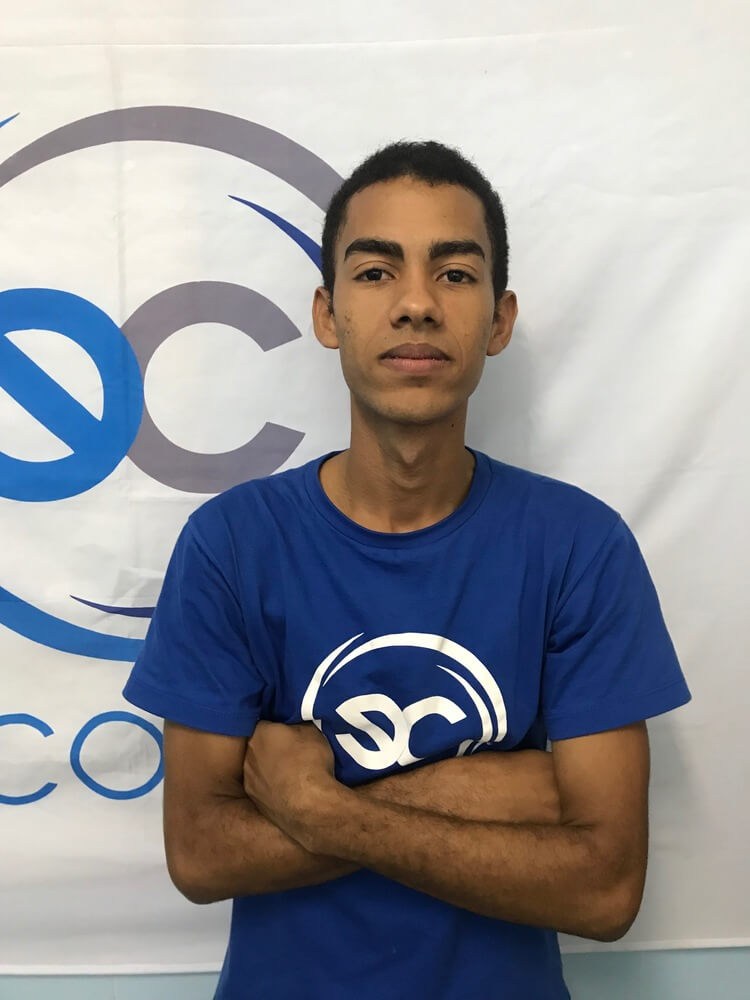
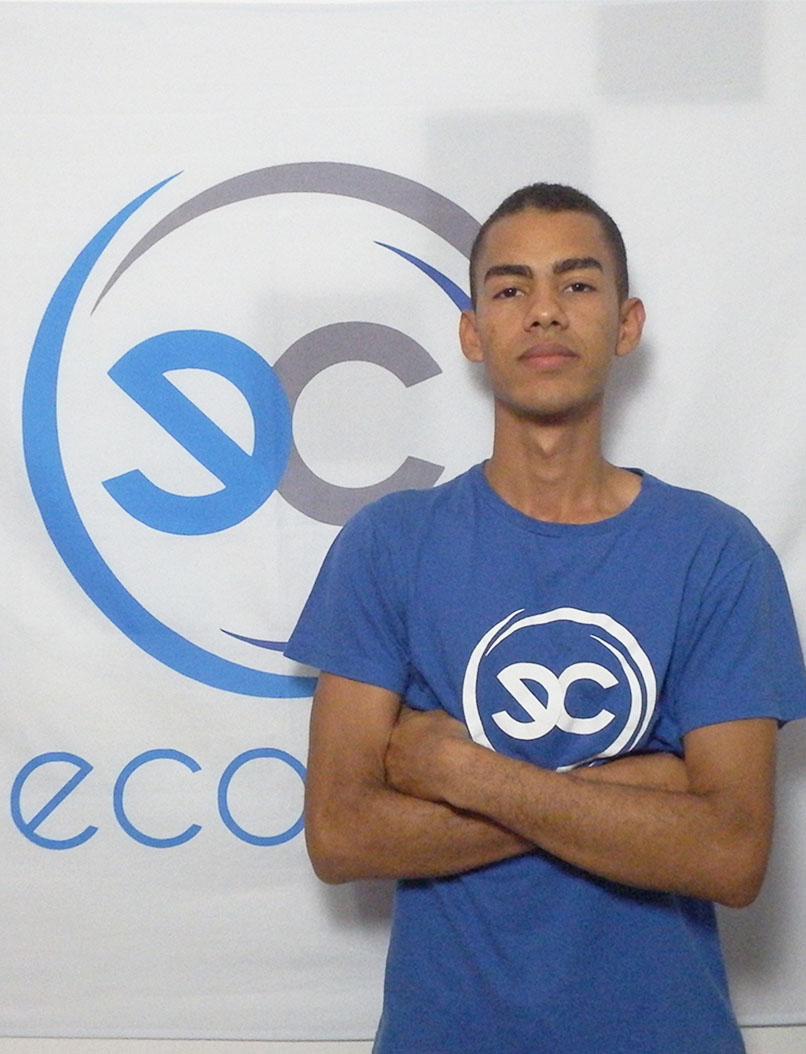
Alterações dos membros ecompJr
Adicionadas as fotos novas dos membros

diff --git a/equipe.html b/equipe.html
@@ -191,136 +191,127 @@
                         </div>
                         <!-- /.item -->
                     </div>
+                </div>
+                <!-- /.team-member-slider -->
+            </div>
+            <!-- /.container -->
+            <div class="over-view">
+                <div class="container">
+                    <div class="row">
+                        <div class="col-md-12">
+                            <h3 class="text-center title"> Consultores de Projetos </h3>
+                        </div>
+                        <!-- /.col-md-12 -->
+                    </div>
+                    <!-- /.row -->
+                </div>
+                <!-- /.container -->
+            </div>
+            <!-- /.over-view -->
 
-                    <!--/. <div class="col-md-3">
+            <div class="container">
+                <div id="team-member-slider-2" class="team-member-slider owl-carousel owl-theme">
+                    <div class="col-md-6">
+                        <div class="item">
+                            <div id="membro-0" class="member-container wow bounceInUp" data-wow-delay=".1s">
+
+                            </div>
+                            <!-- /.member-container -->
+                        </div>
+                        <!-- /.item -->
+                    </div>
+
+                    <div class="col-md-6">
+                        <div class="item">
+                            <div id="membro-1" class="member-container wow bounceInUp" data-wow-delay=".2s">
+
+                            </div>
+                            <!-- /.member-container -->
+                        </div>
+                        <!-- /.item -->
+                    </div>
+
+                    <div class="col-md-6">
+                        <div class="item">
+                            <div id="membro-2" class="member-container wow bounceInUp" data-wow-delay=".3s">
+
+                            </div>
+                            <!-- /.member-container -->
+                        </div>
+                        <!-- /.item -->
+                    </div>
+
+                    <div class="col-md-6">
+                        <div class="item">
+                            <div id="membro-3" class="member-container wow bounceInUp" data-wow-delay=".4s">
+
+                            </div>
+                            <!-- /.member-container -->
+                        </div>
+                        <!-- /.item -->
+                    </div>
+
+                    <div class="col-md-6">
+                        <div class="item">
+                            <div id="membro-4" class="member-container wow bounceInUp" data-wow-delay=".5s">
+
+                            </div>
+                            <!-- /.member-container -->
+                        </div>
+                        <!-- /.item -->
+                    </div>
+
+                    <div class="col-md-6">
+                        <div class="item">
+                            <div id="membro-5" class="member-container wow bounceInUp" data-wow-delay=".6s">
+
+                            </div>
+                            <!-- /.member-container -->
+                        </div>
+                        <!-- /.item -->
+                    </div>
+
+                    <div class="col-md-6">
+                        <div class="item">
+                            <div id="membro-6" class="member-container wow bounceInUp" data-wow-delay=".7s">
+
+                            </div>
+                            <!-- /.member-container -->
+                        </div>
+                        <!-- /.item -->
+                    </div>
+
+                    <div class="col-md-6">
+                        <div class="item">
+                            <div id="membro-7" class="member-container wow bounceInUp" data-wow-delay=".8s">
+
+                            </div>
+                            <!-- /.member-container -->
+                        </div>
+                        <!-- /.item -->
+                    </div>
+                    <div class="col-md-6">
+                        <div class="item">
+                            <div id="membro-8" class="member-container wow bounceInUp" data-wow-delay=".9s">
+
+                            </div>
+                            <!-- /.member-container -->
+                        </div>
+                        <!-- /.item -->
+                    </div>
+
+
+
+                    <!--div class="col-md-6">
 						<div class="item">
-							<div  id="diretor-5" class="member-container wow bounceInUp" data-wow-delay=".6s">
+							<div id="membro-11" class="member-container wow bounceInUp" data-wow-delay=".11s">
 								
 							</div><!-- /.member-container -->
                 </div>
                 <!-- /.item -->
             </div>
-        </div>
-        <!-- /.team-member-slider -->
-        </div>
-        <!-- /.container -->
-        <div class="over-view">
-            <div class="container">
-                <div class="row">
-                    <div class="col-md-12">
-                        <h3 class="text-center title"> Consultores de Projetos </h3>
-                    </div>
-                    <!-- /.col-md-12 -->
-                </div>
-                <!-- /.row -->
-            </div>
-            <!-- /.container -->
-        </div>
-        <!-- /.over-view -->
 
-        <div class="container">
-            <div id="team-member-slider-2" class="team-member-slider owl-carousel owl-theme">
-                <div class="col-md-6">
-                    <div class="item">
-                        <div id="membro-0" class="member-container wow bounceInUp" data-wow-delay=".1s">
-
-                        </div>
-                        <!-- /.member-container -->
-                    </div>
-                    <!-- /.item -->
-                </div>
-
-                <div class="col-md-6">
-                    <div class="item">
-                        <div id="membro-1" class="member-container wow bounceInUp" data-wow-delay=".2s">
-
-                        </div>
-                        <!-- /.member-container -->
-                    </div>
-                    <!-- /.item -->
-                </div>
-
-                <div class="col-md-6">
-                    <div class="item">
-                        <div id="membro-2" class="member-container wow bounceInUp" data-wow-delay=".3s">
-
-                        </div>
-                        <!-- /.member-container -->
-                    </div>
-                    <!-- /.item -->
-                </div>
-
-                <div class="col-md-6">
-                    <div class="item">
-                        <div id="membro-3" class="member-container wow bounceInUp" data-wow-delay=".4s">
-
-                        </div>
-                        <!-- /.member-container -->
-                    </div>
-                    <!-- /.item -->
-                </div>
-
-                <div class="col-md-6">
-                    <div class="item">
-                        <div id="membro-4" class="member-container wow bounceInUp" data-wow-delay=".5s">
-
-                        </div>
-                        <!-- /.member-container -->
-                    </div>
-                    <!-- /.item -->
-                </div>
-
-                <div class="col-md-6">
-                    <div class="item">
-                        <div id="membro-5" class="member-container wow bounceInUp" data-wow-delay=".6s">
-
-                        </div>
-                        <!-- /.member-container -->
-                    </div>
-                    <!-- /.item -->
-                </div>
-
-                <div class="col-md-6">
-                    <div class="item">
-                        <div id="membro-6" class="member-container wow bounceInUp" data-wow-delay=".7s">
-
-                        </div>
-                        <!-- /.member-container -->
-                    </div>
-                    <!-- /.item -->
-                </div>
-
-                <div class="col-md-6">
-                    <div class="item">
-                        <div id="membro-7" class="member-container wow bounceInUp" data-wow-delay=".8s">
-
-                        </div>
-                        <!-- /.member-container -->
-                    </div>
-                    <!-- /.item -->
-                </div>
-                <div class="col-md-6">
-                    <div class="item">
-                        <div id="membro-8" class="member-container wow bounceInUp" data-wow-delay=".9s">
-
-                        </div>
-                        <!-- /.member-container -->
-                    </div>
-                    <!-- /.item -->
-                </div>
-
-
-
-                <!--div class="col-md-6">
-						<div class="item">
-							<div id="membro-11" class="member-container wow bounceInUp" data-wow-delay=".11s">
-								
-							</div><!-- /.member-container -->
-            </div>
-            <!-- /.item -->
-        </div>
-
-        <!--div class="col-md-6">
+            <!--div class="col-md-6">
 						<div class="item">
 							<div id="membro-12" class="member-container wow bounceInUp" data-wow-delay=".12s">
 								
@@ -371,7 +362,7 @@
 
             </div>
         </div>
-        </div>
+
 
     </section>
 

diff --git a/index.html b/index.html
@@ -305,22 +305,6 @@
 
                         <li class="item col-md-4 col-sm-6">
                             <div class="service-icon">
-                                <span aria-hidden="true" class="li_settings"></span>
-                            </div>
-                            <!-- /.service-icon -->
-                            <p class="item-title">
-                                Automação residencial
-                            </p>
-                            <!-- /.item-title -->
-                            <p class="item-description">
-                                Automatize a sua empresa ou residência e controle pequenas atividades cotidianas, aumentando a sua produtividade, tudo isso através do seu celular!
-                            </p>
-                            <!-- /.item-description -->
-                        </li>
-                        <!-- /.item -->
-
-                        <li class="item col-md-4 col-sm-6">
-                            <div class="service-icon">
                                 <span aria-hidden="true" class="li_phone"></span>
                             </div>
                             <!-- /.service-icon -->
@@ -610,23 +594,6 @@
                                     </figcaption>
                                 </figure>
 
-                                <figure class="item cat-3">
-                                    <img src="images/portfolio/dipapel.png" alt="diPapel" />
-                                    <figcaption>
-                                        <a href="diPapel-details.html" target="_blank">
-                                            <div class="portfolio-caption">
-                                                <span class="protfolio-title">DiPapel</span>
-                                                <span class="protfolio-cat">Sistema</span>
-                                            </div>
-                                            <!--<span class="protfolio-icon">
-											30 <i class="fa fa-heart-o"></i>
-									</span>-->
-                                        </a>
-                                    </figcaption>
-                                </figure>
-
-
-
                                 <figure class="item cat-3 ">
                                     <img src="images/portfolio/absam.png" alt="ABSAM VPN" />
                                     <figcaption>
@@ -693,9 +660,9 @@
                                             <h3><i class="fa fa-clock-o"></i> Horários:</h3>
                                             <span><strong>Segunda</strong> - das 7:30 às 17:30</span><br>
                                             <span><strong>Terça</strong> - das 7:30 às 17:30</span><br>
-                                            <span><strong>Quarta</strong> - das 7:30 às 18:30</span><br>
-                                            <span><strong>Quinta</strong> - das 13:30 às 18:00</span><br>
-                                            <span><strong>Sexta</strong> - das 8:00 às 15:30</span><br><br>
+                                            <span><strong>Quarta</strong> - das 7:30 às 17:30</span><br>
+                                            <span><strong>Quinta</strong> - das 7:30 às 17:30</span><br>
+                                            <span><strong>Sexta</strong> - das 7:30 às 17:30</span><br><br>
                                         </div>
                                     </div>
                                 </div>

diff --git a/assets/js/members.js b/assets/js/members.js
@@ -60,8 +60,8 @@ jQuery(window).load(function() {
             email: 'antonio@ecompjr.com.br',
             github: '',
             job: 'Diretor de Recursos Humanos',
-            text: '',
-            image: 'images/members/member-.jpg'
+            text: 'O único lugar onde o sucesso vem antes do trabalho é no dicionário - Einstein.',
+            image: 'images/members/member-39.jpg'
         },
 
         {
@@ -88,7 +88,7 @@ jQuery(window).load(function() {
             github: '',
             job: 'Membro Consultor',
             text: '',
-            image: 'images/members/member-.jpg'
+            image: 'images/members/member-38.jpg'
         },
 
         {
@@ -115,7 +115,7 @@ jQuery(window).load(function() {
             github: '',
             job: 'Membro Consultor',
             text: '.',
-            image: 'images/members/member-.jpg'
+            image: 'images/members/member-37.jpg'
         },
 
         {

diff --git a/assets/js/members-page.js b/assets/js/members-page.js
@@ -60,8 +60,8 @@
               email: 'antonio@ecompjr.com.br',
               github: '',
               job: 'Diretor de Recursos Humanos',
-              text: '',
-              image: 'images/members/member-.jpg'
+              text: 'O único lugar onde o sucesso vem antes do trabalho é no dicionário - Einstein.',
+              image: 'images/members/member-39.jpg'
           },
 
           {
@@ -88,7 +88,7 @@
               github: '',
               job: 'Membro Consultor',
               text: '',
-              image: 'images/members/member-.jpg'
+              image: 'images/members/member-38.jpg'
           },
 
           {
@@ -115,7 +115,7 @@
               github: '',
               job: 'Membro Consultor',
               text: '.',
-              image: 'images/members/member-.jpg'
+              image: 'images/members/member-37.jpg'
           },
 
           {
